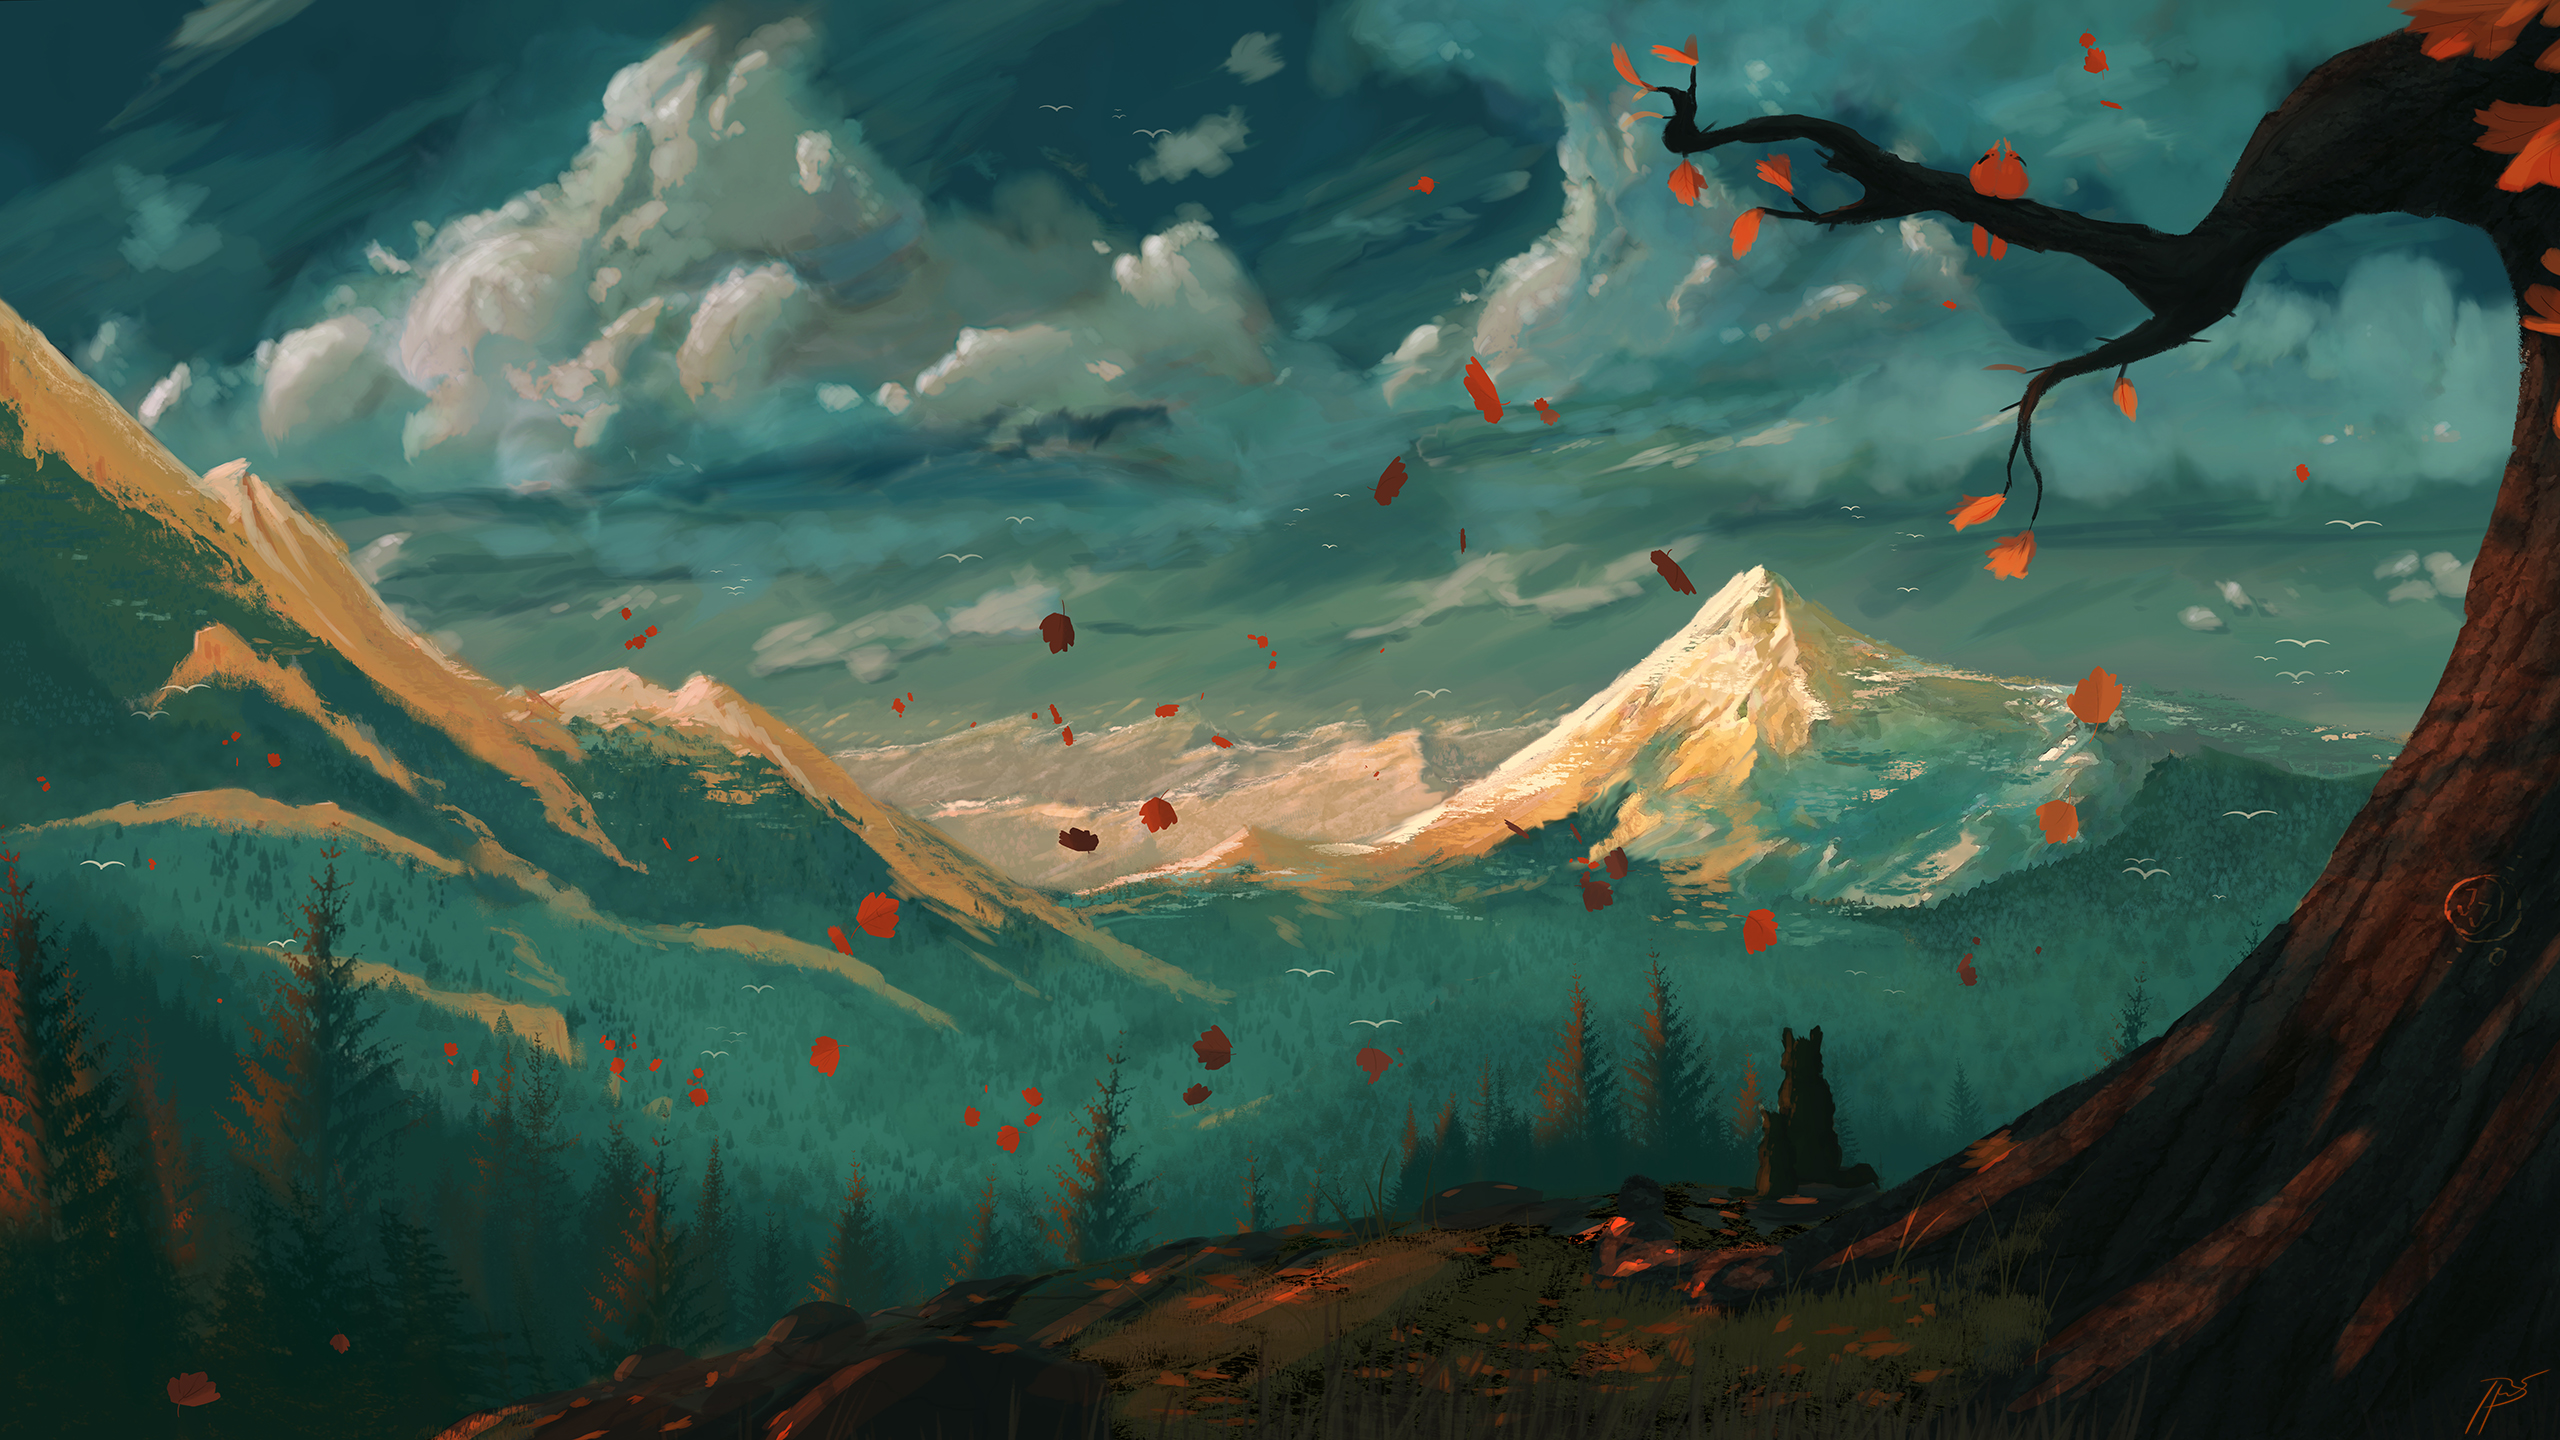
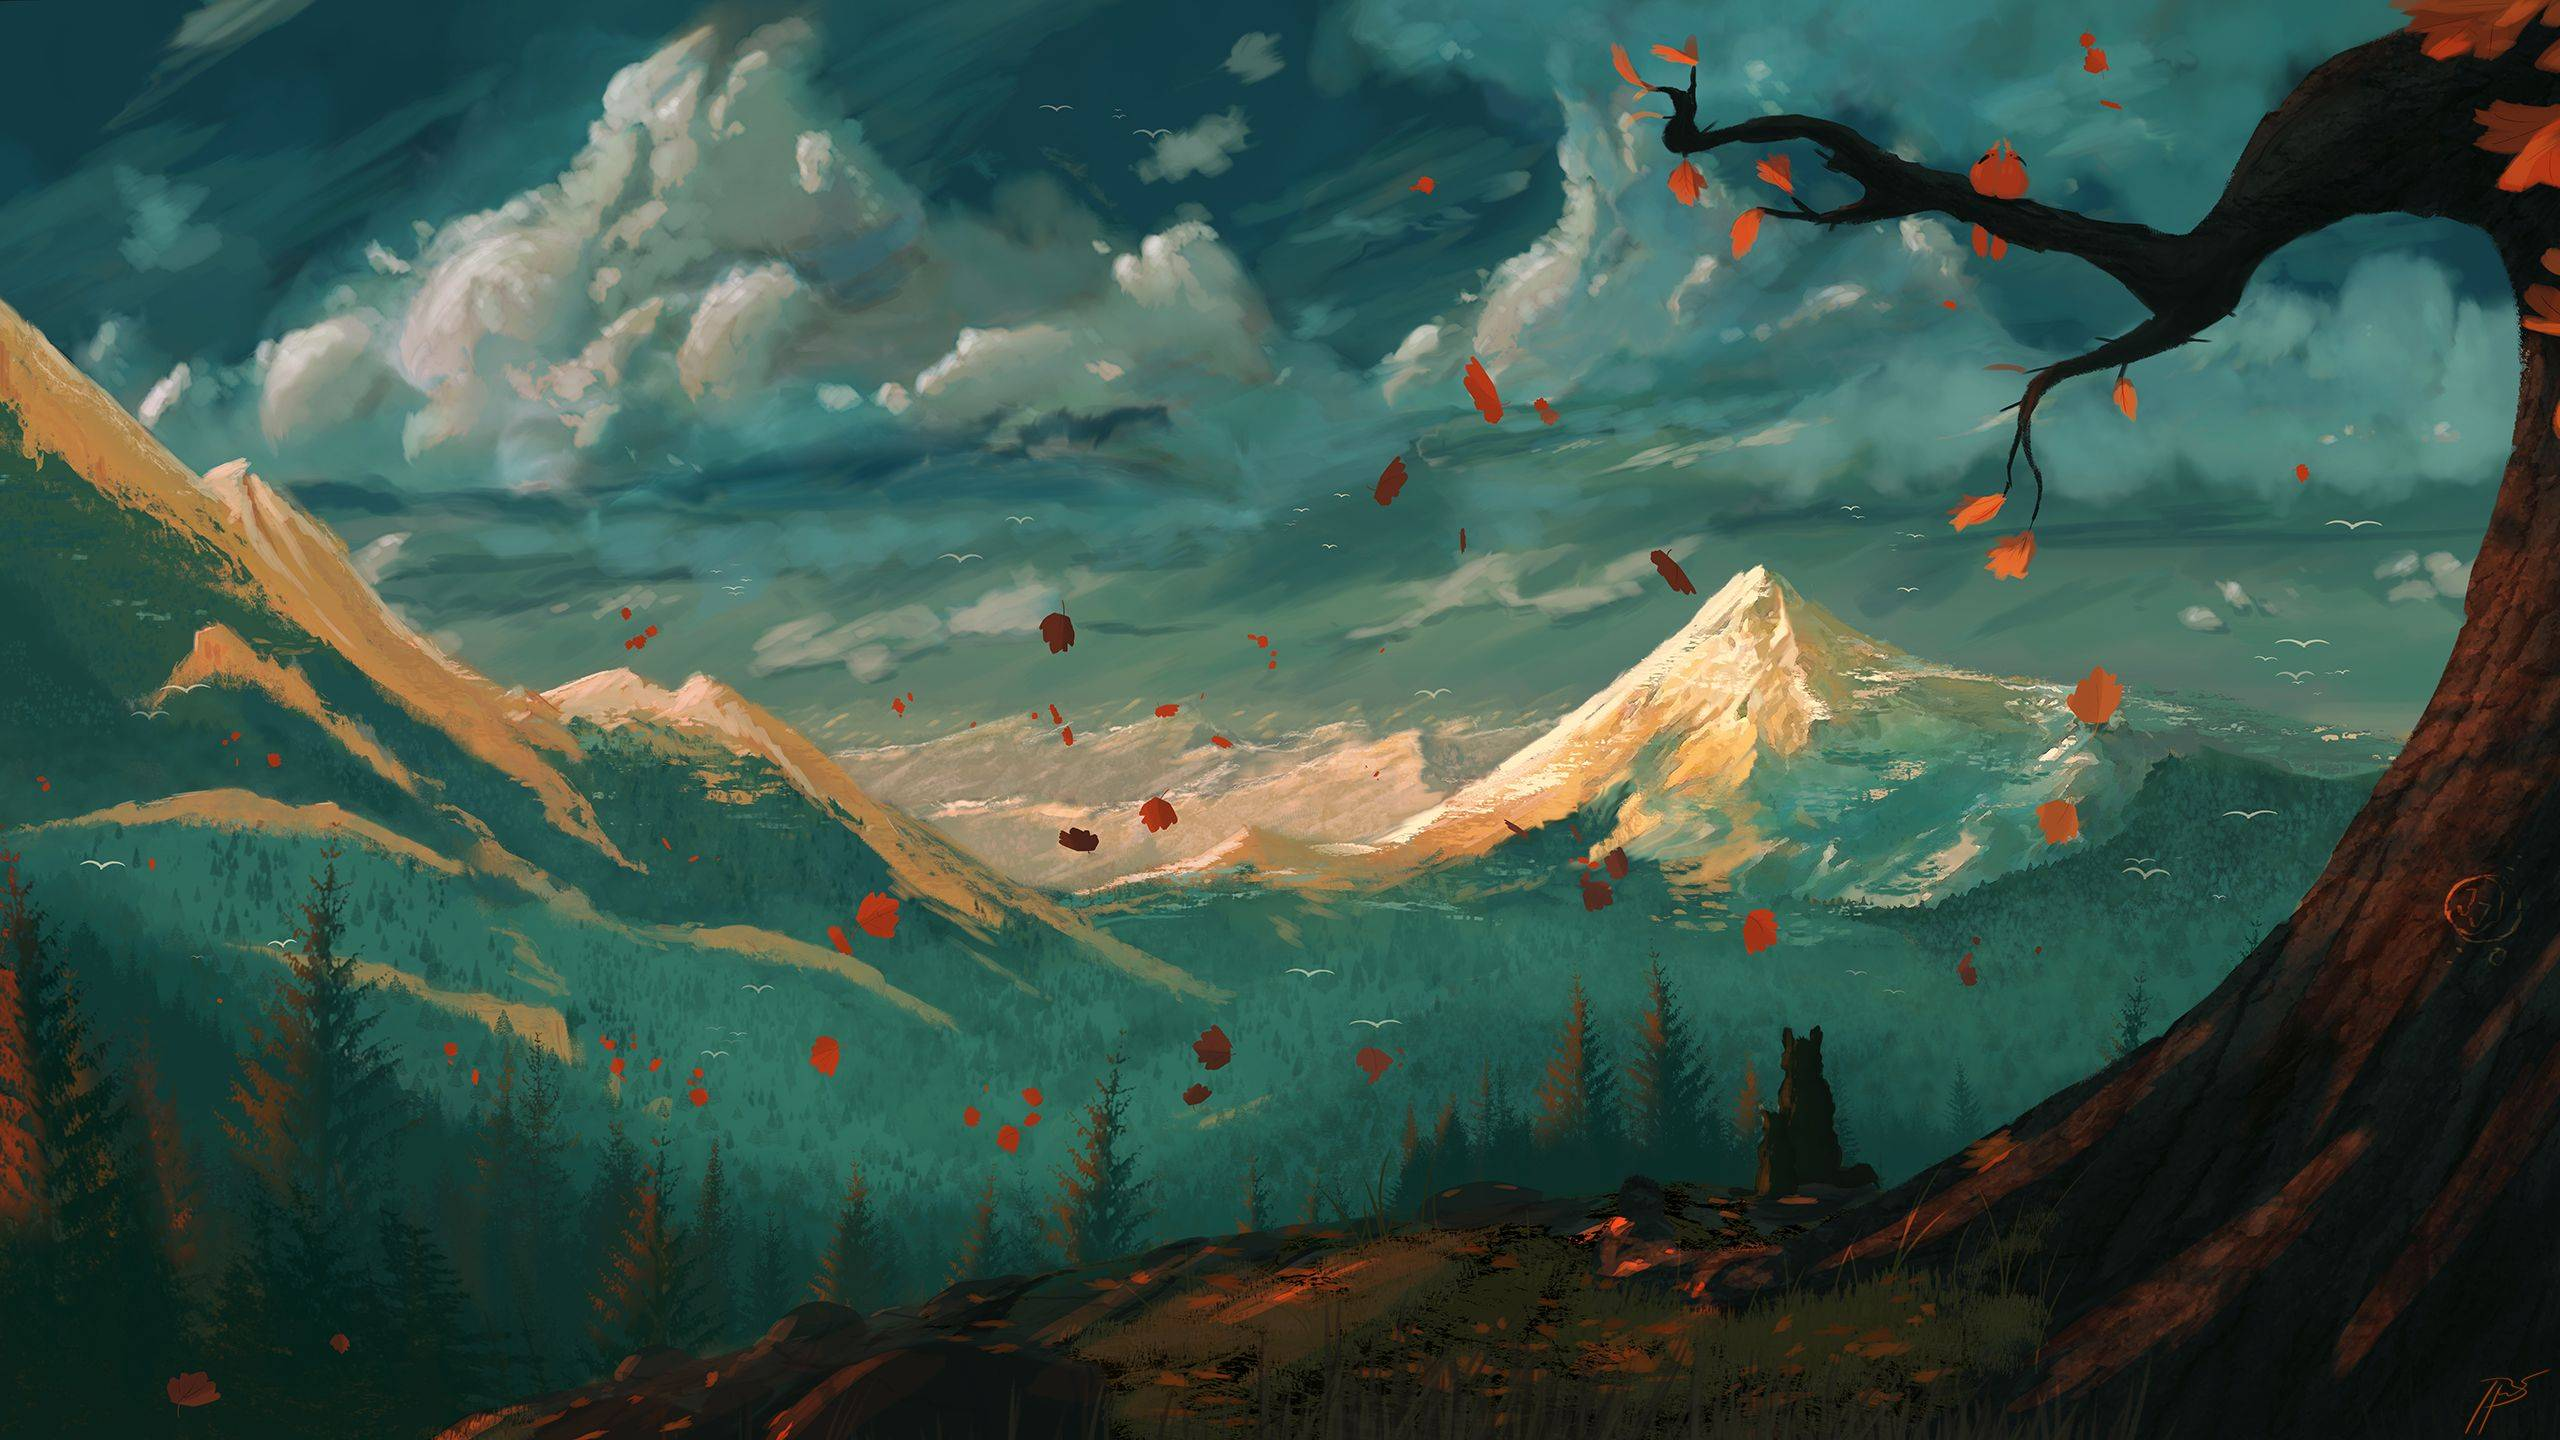
feat: compress images from 51MB to 3.2MB, add compression script
- Compressed 6 large images (1.png, 2.jpg, 3.jpg, landscape3-5.jpg)
- Reduced total image size from 51MB to 3.2MB (93.7% reduction)
- Added fetch_scripts/compress_images.py with backup support
- Added source/images/backup/ to .gitignore
- Images resized to max 2000px width where needed
- Original files preserved in backup/ directory for rollback

diff --git a/blog/fetch_scripts/compress_images.py b/blog/fetch_scripts/compress_images.py
@@ -1,0 +1,159 @@
+"""
+图片压缩脚本 - 将博客图片从 51MB 压缩到 10MB 以内
+保留原始格式，不转换为 WebP
+"""
+import os
+import shutil
+from PIL import Image
+from pathlib import Path
+
+
+def get_file_size_mb(path):
+    """获取文件大小（MB）"""
+    return os.path.getsize(path) / (1024 * 1024)
+
+
+def compress_image(input_path, output_path, target_mb, min_quality=30, max_width=2000):
+    """
+    智能压缩图片：调整尺寸 + 质量
+    保留原始格式
+    """
+    ext = Path(input_path).suffix.lower()
+    is_png = ext == '.png'
+
+    current_size = get_file_size_mb(input_path)
+    if current_size <= target_mb:
+        print(f"  已经足够小 ({current_size:.2f}MB <= {target_mb:.2f}MB)，跳过")
+        return True
+
+    with Image.open(input_path) as img:
+        original_size = img.size
+
+        # 转换 RGBA 为 RGB（JPEG 不支持 RGBA）
+        if img.mode == 'RGBA' and not is_png:
+            img = img.convert('RGB')
+        elif img.mode == 'RGBA' and is_png:
+            # PNG 保留 RGBA
+            pass
+        elif img.mode in ('CMYK', 'LA', 'P'):
+            img = img.convert('RGB')
+
+        # 第一步：缩小尺寸
+        width, height = img.size
+        if width > max_width:
+            ratio = max_width / width
+            new_size = (max_width, int(height * ratio))
+            img = img.resize(new_size, Image.Resampling.LANCZOS)
+            print(f"  尺寸调整: {original_size} -> {new_size}")
+
+        # 第二步：迭代降低质量
+        if is_png:
+            # PNG：先缩小尺寸，再减少颜色
+            for colors in [256, 128, 64]:
+                if img.mode == 'RGBA':
+                    quantized = img.quantize(colors=colors, method=Image.Quantize.FASTOCTREE)
+                else:
+                    quantized = img.quantize(colors=colors, method=Image.Quantize.MEDIANCUT)
+                quantized.save(output_path, 'PNG', optimize=True)
+                size = get_file_size_mb(output_path)
+                print(f"  colors={colors}, 大小={size:.2f}MB")
+                if size <= target_mb:
+                    return True
+        else:
+            # JPEG：降低质量
+            quality = 80
+            while quality >= min_quality:
+                img.save(output_path, 'JPEG', quality=quality, optimize=True)
+                size = get_file_size_mb(output_path)
+                print(f"  quality={quality}, 大小={size:.2f}MB")
+                if size <= target_mb:
+                    return True
+                quality -= 10
+
+            # 最终保存
+            img.save(output_path, 'JPEG', quality=min_quality, optimize=True)
+
+    return True
+
+
+def main():
+    images_dir = Path(__file__).parent.parent / "source" / "images"
+    backup_dir = images_dir / "backup"
+
+    backup_dir.mkdir(exist_ok=True)
+
+    TARGET_TOTAL_MB = 10.0
+
+    # 获取所有图片文件
+    image_files = []
+    for f in images_dir.iterdir():
+        if f.is_file() and f.suffix.lower() in ('.jpg', '.jpeg', '.png', '.gif'):
+            image_files.append(f)
+
+    image_files.sort(key=lambda f: f.stat().st_size, reverse=True)
+
+    print(f"找到 {len(image_files)} 个图片文件")
+    print(f"当前总大小: {sum(get_file_size_mb(f) for f in image_files):.2f}MB")
+    print(f"目标总大小: {TARGET_TOTAL_MB}MB")
+    print()
+
+    # 分类
+    small_files = [f for f in image_files if f.stat().st_size < 500 * 1024]
+    large_files = [f for f in image_files if f.stat().st_size >= 500 * 1024]
+
+    small_total = sum(get_file_size_mb(f) for f in small_files)
+    target_for_large = TARGET_TOTAL_MB - small_total
+
+    print(f"小文件 ({len(small_files)}个): {small_total:.2f}MB (保持原样)")
+    print(f"大文件 ({len(large_files)}个): 需压缩到 {target_for_large:.2f}MB")
+    print()
+
+    # 分配目标
+    large_total = sum(get_file_size_mb(f) for f in large_files)
+    targets = {}
+    for f in large_files:
+        size = get_file_size_mb(f)
+        target = (size / large_total) * target_for_large
+        target = max(target, 0.3)
+        targets[f] = target
+
+    # 处理所有图片
+    for f in image_files:
+        filename = f.name
+        backup_path = backup_dir / filename
+
+        print(f"处理: {filename} ({get_file_size_mb(f):.2f}MB)")
+
+        # 备份
+        if not backup_path.exists():
+            shutil.copy2(f, backup_path)
+            print(f"  备份到: backup/{filename}")
+
+        if f in large_files:
+            target = targets[f]
+            print(f"  目标大小: {target:.2f}MB")
+            compress_image(f, f, target)
+        else:
+            print(f"  小文件，保持原样")
+
+    # 验证
+    print("\n" + "="*50)
+    print("压缩完成！验证结果：")
+    print("="*50)
+
+    final_total = 0
+    for f in image_files:
+        size = get_file_size_mb(f)
+        final_total += size
+        print(f"  {f.name}: {size:.2f}MB")
+
+    print(f"\n最终总大小: {final_total:.2f}MB")
+    print(f"目标: {TARGET_TOTAL_MB}MB")
+    print(f"结果: {'达标' if final_total <= TARGET_TOTAL_MB else '未达标'}")
+    print(f"\n压缩前: 51.00MB")
+    print(f"压缩后: {final_total:.2f}MB")
+    print(f"压缩率: {(1 - final_total/51)*100:.1f}%")
+
+
+if __name__ == "__main__":
+    main()